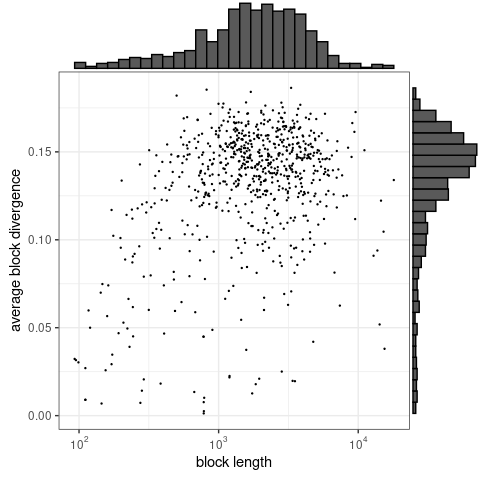
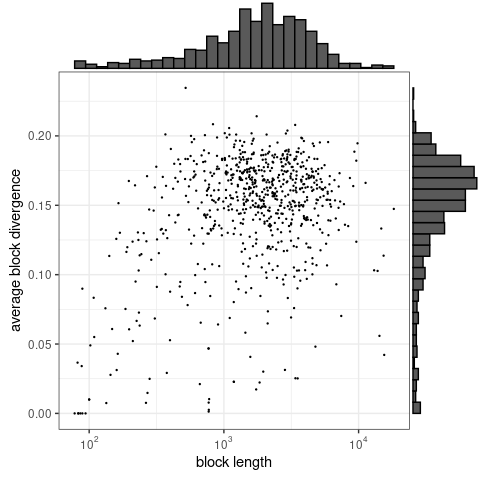
warnings

diff --git a/README.md b/README.md
@@ -1,6 +1,6 @@
 segmut
 ================
-2022-12-12
+2022-12-13
 
 <!-- README.md is generated from README.Rmd. Please edit that file -->
 
@@ -61,6 +61,14 @@ library(scales)
 library(ggExtra)
 library(stringi)
 library(ggplot2)
+library(plotrix)
+#> 
+#> Attaching package: 'plotrix'
+#> 
+#> The following object is masked from 'package:scales':
+#> 
+#>     rescale
+options(warn=-1)
 ```
 
 To set parameters
@@ -88,13 +96,13 @@ breaks:
 To find optimal breaks locations given `n=3` number of breaks
 
 ``` r
-res <- getBreaksChiSquare(muts = muts, L = L, Kmin=Kmin, n=3)
+res <- suppressWarnings(getBreaksChiSquare(muts = muts, L = L, Kmin=Kmin, n=3))
 ```
 
 To plot the results
 
 ``` r
-breaks0L <- sort(c(0,res$optim$bestmem,L))
+breaks0L <- sort(c(0,res,L))
 colors <- brewer.pal(name="Paired", n=length(breaks0L)-1)
 par(mar=c(2,0,0,0))
 plot(muts,rep(0,length(muts)),pch=".", cex = 1.5,ylim=c(-0.06,0.01),ylab="",xlab="", axes=F)
@@ -115,7 +123,7 @@ breaks and their locations:
 To find optimal number of breaks
 
 ``` r
-breaks <- getNumberBreaksChiSquare(muts,L=L,Kmin=Kmin)
+breaks <- suppressWarnings(getNumberBreaksChiSquare(muts,L=L,Kmin=Kmin))
 ```
 
 To plot the results
@@ -136,6 +144,8 @@ for (i in 1:(length(breaks0L)-1))
 
 ## Example with Escherichia coli (NZ_CP033020.1) vs. Salmonella enterica (NZ_AP026948) alignment
 
+### Alignment of the genomes
+
 We align two bacterial genomes using nucmer and get all the alignment
 blocks and the mutations
 
@@ -146,14 +156,41 @@ file2 <- paste0(datadir,"Salmonella_enterica_1.fasta")
 system(paste0("nucmer --mum --prefix=",datadir,"align ",file1," ",file2), intern = TRUE, wait=TRUE)
 #> character(0)
 alignment <- system(paste0("show-aligns -w 500000 ", datadir,"align.delta NZ_CP033020.1 NZ_AP026948.1"), intern = TRUE, wait=TRUE)
-alignment <- alignment[str_detect(alignment,"\\^")]
-alignment <- lapply(1:length(alignment),function(i){gsub("(\\^)\\1{1,}", "\\1", alignment[[i]])}) # removing adjacent mutations
-divergence <- sum(str_count(alignment,"\\^"))/sum(nchar(alignment))
-block_divergences <- (str_count(alignment,"\\^"))/(nchar(alignment))
-Ls <- nchar(alignment)
-r <- stri_locate_all(pattern = '^', alignment, fixed = TRUE)
-rs <- c()
-for (i in order(-nchar(alignment))) rs <- c(rs,diff(r[[i]][,1]))
+alignment <- substr(alignment,12,nchar(alignment)) # removing empty space in the front
+
+# replace long indels by 1bp indel to make sure that (1 indel = 1 mutation)
+Ls <- c()
+number_muts <- c()
+r <- c()
+mutsS <- list()
+for (i in seq(11,length(alignment),9))
+{
+  str1 <- str_split(alignment[[i-2]],"")[[1]]
+  str2 <- str_split(alignment[[i-1]],"")[[1]]
+  strmuts <- str_split(alignment[[i]],"")[[1]]
+  Ind <- which(str1[1:(length(str1)-1)]=="." & str1[2:length(str1)]==".")
+  while (length(Ind)>0)
+  {
+    str1 <- str1[-Ind]
+    str2 <- str2[-Ind]
+    strmuts <- strmuts[-Ind]
+    Ind <- which(str1[1:(length(str1)-1)]=="." & str1[2:length(str1)]==".")
+  }
+  Ind <- which(str2[1:(length(str2)-1)]=="." & str2[2:length(str2)]==".")
+  while (length(Ind)>0)
+  {
+    str1 <- str1[-Ind]
+    str2 <- str2[-Ind]
+    strmuts <- strmuts[-Ind]
+    Ind <- which(str2[1:(length(str2)-1)]=="." & str2[2:length(str2)]==".")
+  }
+  Ls <- c(Ls,length(strmuts))
+  number_muts <- c(number_muts,sum(strmuts=="^"))
+  r <- c(r,diff(c(0,which(strmuts=="^"),length(strmuts)+1))-1)
+  mutsS[[length(mutsS)+1]] <- which(strmuts=="^")
+}
+block_divergences <- number_muts/Ls
+divergence <- sum(number_muts)/sum(Ls)
 ```
 
 Plotting divergences and lengths of the alignment blocks (not segmented
@@ -170,7 +207,9 @@ p <- ggplot(data=data.frame(Ls=Ls,block_divergences=block_divergences), aes(Ls, 
 ```
 
 <img src="man/figures/README-blocks-1.png" width="100%" /> In total
-there are 733 blocks with the total length of 1746795 bp.
+there are 739 blocks with the total length of 1769587 bp.
+
+### Segmentation of the genomes
 
 Segmenting the blocks using segmut package:
 
@@ -178,12 +217,11 @@ Segmenting the blocks using segmut package:
 Ks <- c()
 taus <- c()
 start_time <- Sys.time()
-for (i in order(-nchar(alignment)))
+for (i in order(-Ls))
 {
-  L <- nchar(alignment[[i]])
-  rtemp <- r[[i]][,1]
-  muts <- sort(rtemp + sample(0:0,length(rtemp),replace=TRUE))
-  breaks <- sort(getNumberBreaksChiSquare(muts,L=L,Kmin=Kmin))
+  muts <- mutsS[[i]]
+  L <- Ls[[i]]
+  breaks <- sort(suppressWarnings(getNumberBreaksChiSquare(muts=muts,L=L,Kmin=Kmin)))
   breaks0L <- c(0,breaks,L)
   for (j in 1:(length(breaks0L)-1))
   {
@@ -193,8 +231,10 @@ for (i in order(-nchar(alignment)))
 }
 end_time <- Sys.time()
 print(end_time - start_time)
-#> Time difference of 6.947899 mins
+#> Time difference of 56.42706 secs
 ```
+
+In total there are 2128 segments.
 
 Plotting divergences and lengths of the segments:
 
@@ -214,54 +254,53 @@ p <- ggplot(data=data.frame(Ks=Ks,taus=taus), aes(Ks, taus)) +
 Calculating empirical and pseudotheoretical MLDs:
 
 ``` r
-rB <- c(seq(0.5,35.5,3),10^seq(log10(35.5)+0.1,4.8,0.1))
+rB <- c(seq(-0.5,35.5,3),10^seq(log10(35.5)+0.1,4.8,0.1))
 rV <- 0.5*(rB[-length(rB)]+rB[-1])
-pH <- hist(rs,breaks=rB,plot=FALSE)
+p <- hist(r,breaks=rB,plot=FALSE)
+mE <- p$counts/diff(rB)
 
-mPT <- rV*0
-for (ir in 1:length(rV)) 
+
+rA <- 0:max(Ls+1)
+mPT <- rA*0
+for (ir in 1:length(rA)) 
 {
-  mPT[ir] <- sum((Ks>rV[ir])*(2*taus+(Ks-rV[ir])*taus^2)*exp(-rV[ir]*taus))
+    mPT[ir] <- sum((Ks>rA[ir])*(2*taus+(Ks-rA[ir]-1)*taus^2)*exp(log(1-taus)*rA[ir]))
 }
 for (iK in 1:length(Ks)) 
 {
-  ir <- which(Ks[iK]<=rB[2:length(rB)] & Ks[iK]>=rB[1:(length(rB)-1)])
-  mPT[ir] <- mPT[ir] + exp(-taus[iK]*Ks[iK])/diff(rB)[ir]
+  mPT[Ks[iK]+1] <- mPT[Ks[iK]+1] + exp(log(1-taus[iK])*Ks[iK])
 }
+p <- weighted.hist(rA,w=mPT,breaks=rB,plot=FALSE)
+mPT <- p$counts/diff(rB)
 
-genome <- c()
-for (iK in 1:length(Ks)) 
+mBlocks <- rA*0
+for (ir in 1:length(rA)) 
 {
-  genome <- c(genome,runif(Ks[iK])>exp(-taus[iK]))
-}
-r_fromtau <- diff(sort(which(genome)))
-m_PT_numeric <- hist(r_fromtau,breaks=rB,plot=FALSE)$counts/diff(rB)
-
-
-mBlocks <- rV*0
-for (ir in 1:length(rV)) 
-{
-  mBlocks[ir] <- sum((Ls>rV[ir])*(2*block_divergences+(Ls-rV[ir])*block_divergences^2)*exp(-rV[ir]*block_divergences))
+  mBlocks[ir] <- sum((Ls>rA[ir])*(2*block_divergences+(Ls-rA[ir]-1)*block_divergences^2)*exp(log(1-block_divergences)*rA[ir]))
 }
 for (iL in 1:length(Ls)) 
 {
-  ir <- which(Ls[iL]<=rB[2:length(rB)] & Ls[iL]>=rB[1:(length(rB)-1)])
-  mBlocks[ir] <- mBlocks[ir] + exp(-block_divergences[iL]*Ls[iL])/diff(rB)[ir]
+  mBlocks[Ls[iL]+1] <- mBlocks[Ls[iL]+1] + exp(log(1-block_divergences[iL])*Ls[iL])
 }
+p <- weighted.hist(rA,w=mBlocks,breaks=rB,plot=FALSE)
+mBlocks <- p$counts/diff(rB)
 
 Ktot <- sum(Ls)
-mExp <- (2*divergence+(Ktot-rV)*divergence^2)*exp(-rV*divergence)
-dat <- data.frame(rV=rV,mE=pH$counts/diff(rB),mPT=mPT, mExp=mExp,mBlocks=mBlocks,m_PT_numeric=m_PT_numeric)
+mExp <- (2*divergence+(Ktot-rA)*divergence^2)*(1-divergence)^(rA)
+p <- weighted.hist(rA,w=mExp,breaks=rB,plot=FALSE)
+mExp <- p$counts/diff(rB)
+
+dat <- data.frame(rV=rV,mE=mE,mPT=mPT, mExp=mExp,mBlocks=mBlocks)
 ```
 
 Plotting empirical and pseudotheoretical MLDs:
 
 ``` r
 ggplot(data=dat, aes(rV, mE)) + 
-          geom_line(aes(rV, mPT),col="blue", size=0.2) +
+          geom_line(aes(rV, mPT),col="blue", size=0.5) +
           geom_line(aes(rV, mExp),col="grey", size=0.5,linetype = "solid") +
           geom_line(aes(rV, mBlocks),col="red", size=0.2) +
-          geom_line(aes(rV, m_PT_numeric),col="green", size=0.2) +
+          # geom_line(aes(rV, m_PT_numeric),col="green", size=0.2) +
           scale_x_continuous(limits = c(1e0, 1e3),trans='log10',breaks = 10^(-10:10), labels = trans_format("log10", math_format(10^.x))) +
           scale_y_continuous(limits = c(1e-3, 1e5),trans='log10',breaks = 10^(-10:10), labels = trans_format("log10", math_format(10^.x))) +
           geom_line(aes(rV,1e8/rV^3),linetype = "dashed") + 
